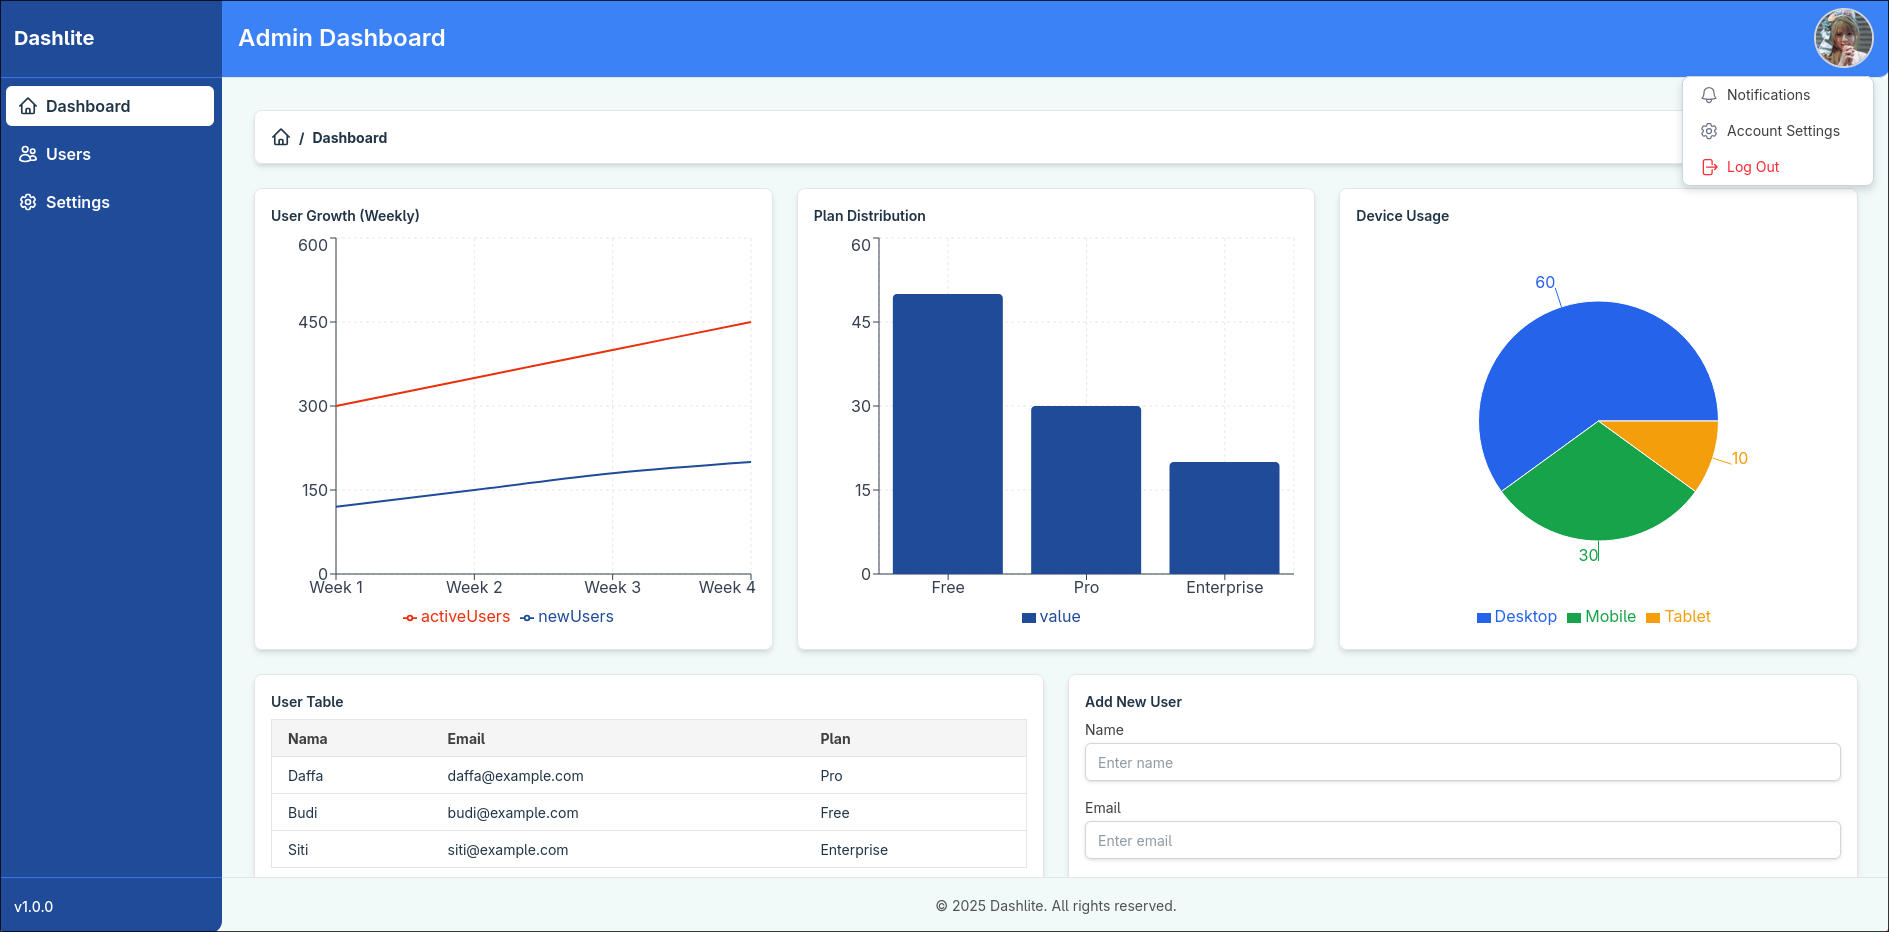
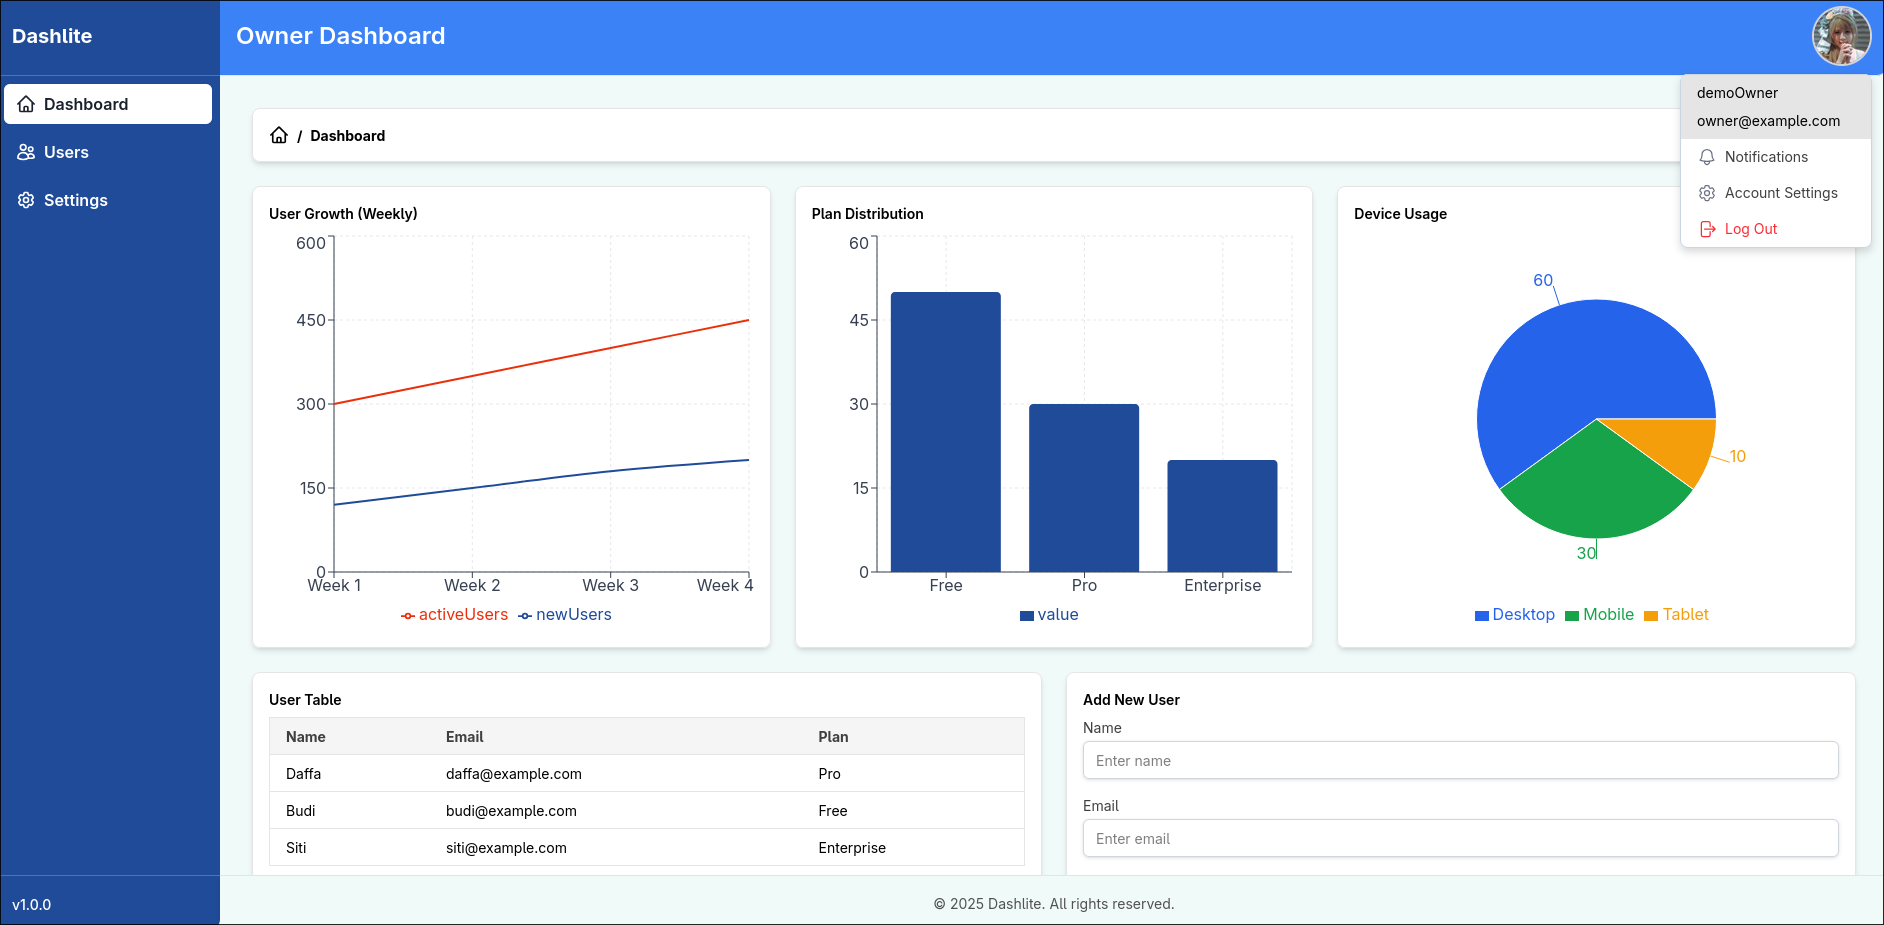
chore: add name in profile

diff --git a/src/shared/molecules/ProfileMenu/index.tsx b/src/shared/molecules/ProfileMenu/index.tsx
@@ -47,9 +47,11 @@ const ProfileMenu = ({ profileInfo }: { profileInfo: ProfileInfo }) => {
 
       {open && (
         <div className="absolute right-0 mt-2 w-48 bg-white drop-shadow-lg border border-slate-300 rounded-lg z-50">
+          <p className="px-4 py-2 gap-2 text-sm bg-neutral-200">{profileInfo.name}</p>
+          <p className="px-4 pb-2 gap-2 text-sm bg-neutral-200">{profileInfo.email}</p>
           <Link
             to="/dashboard/accounts/notifications"
-            className="flex items-center gap-2 px-4 py-2 hover:bg-gray-100 hover:rounded-t-lg text-sm text-neutral-700"
+            className="flex items-center gap-2 px-4 py-2 hover:bg-gray-100 text-sm text-neutral-700"
             onClick={() => setOpen(false)}
           >
             <BellIcon className="w-5 h-5 text-gray-500" />
